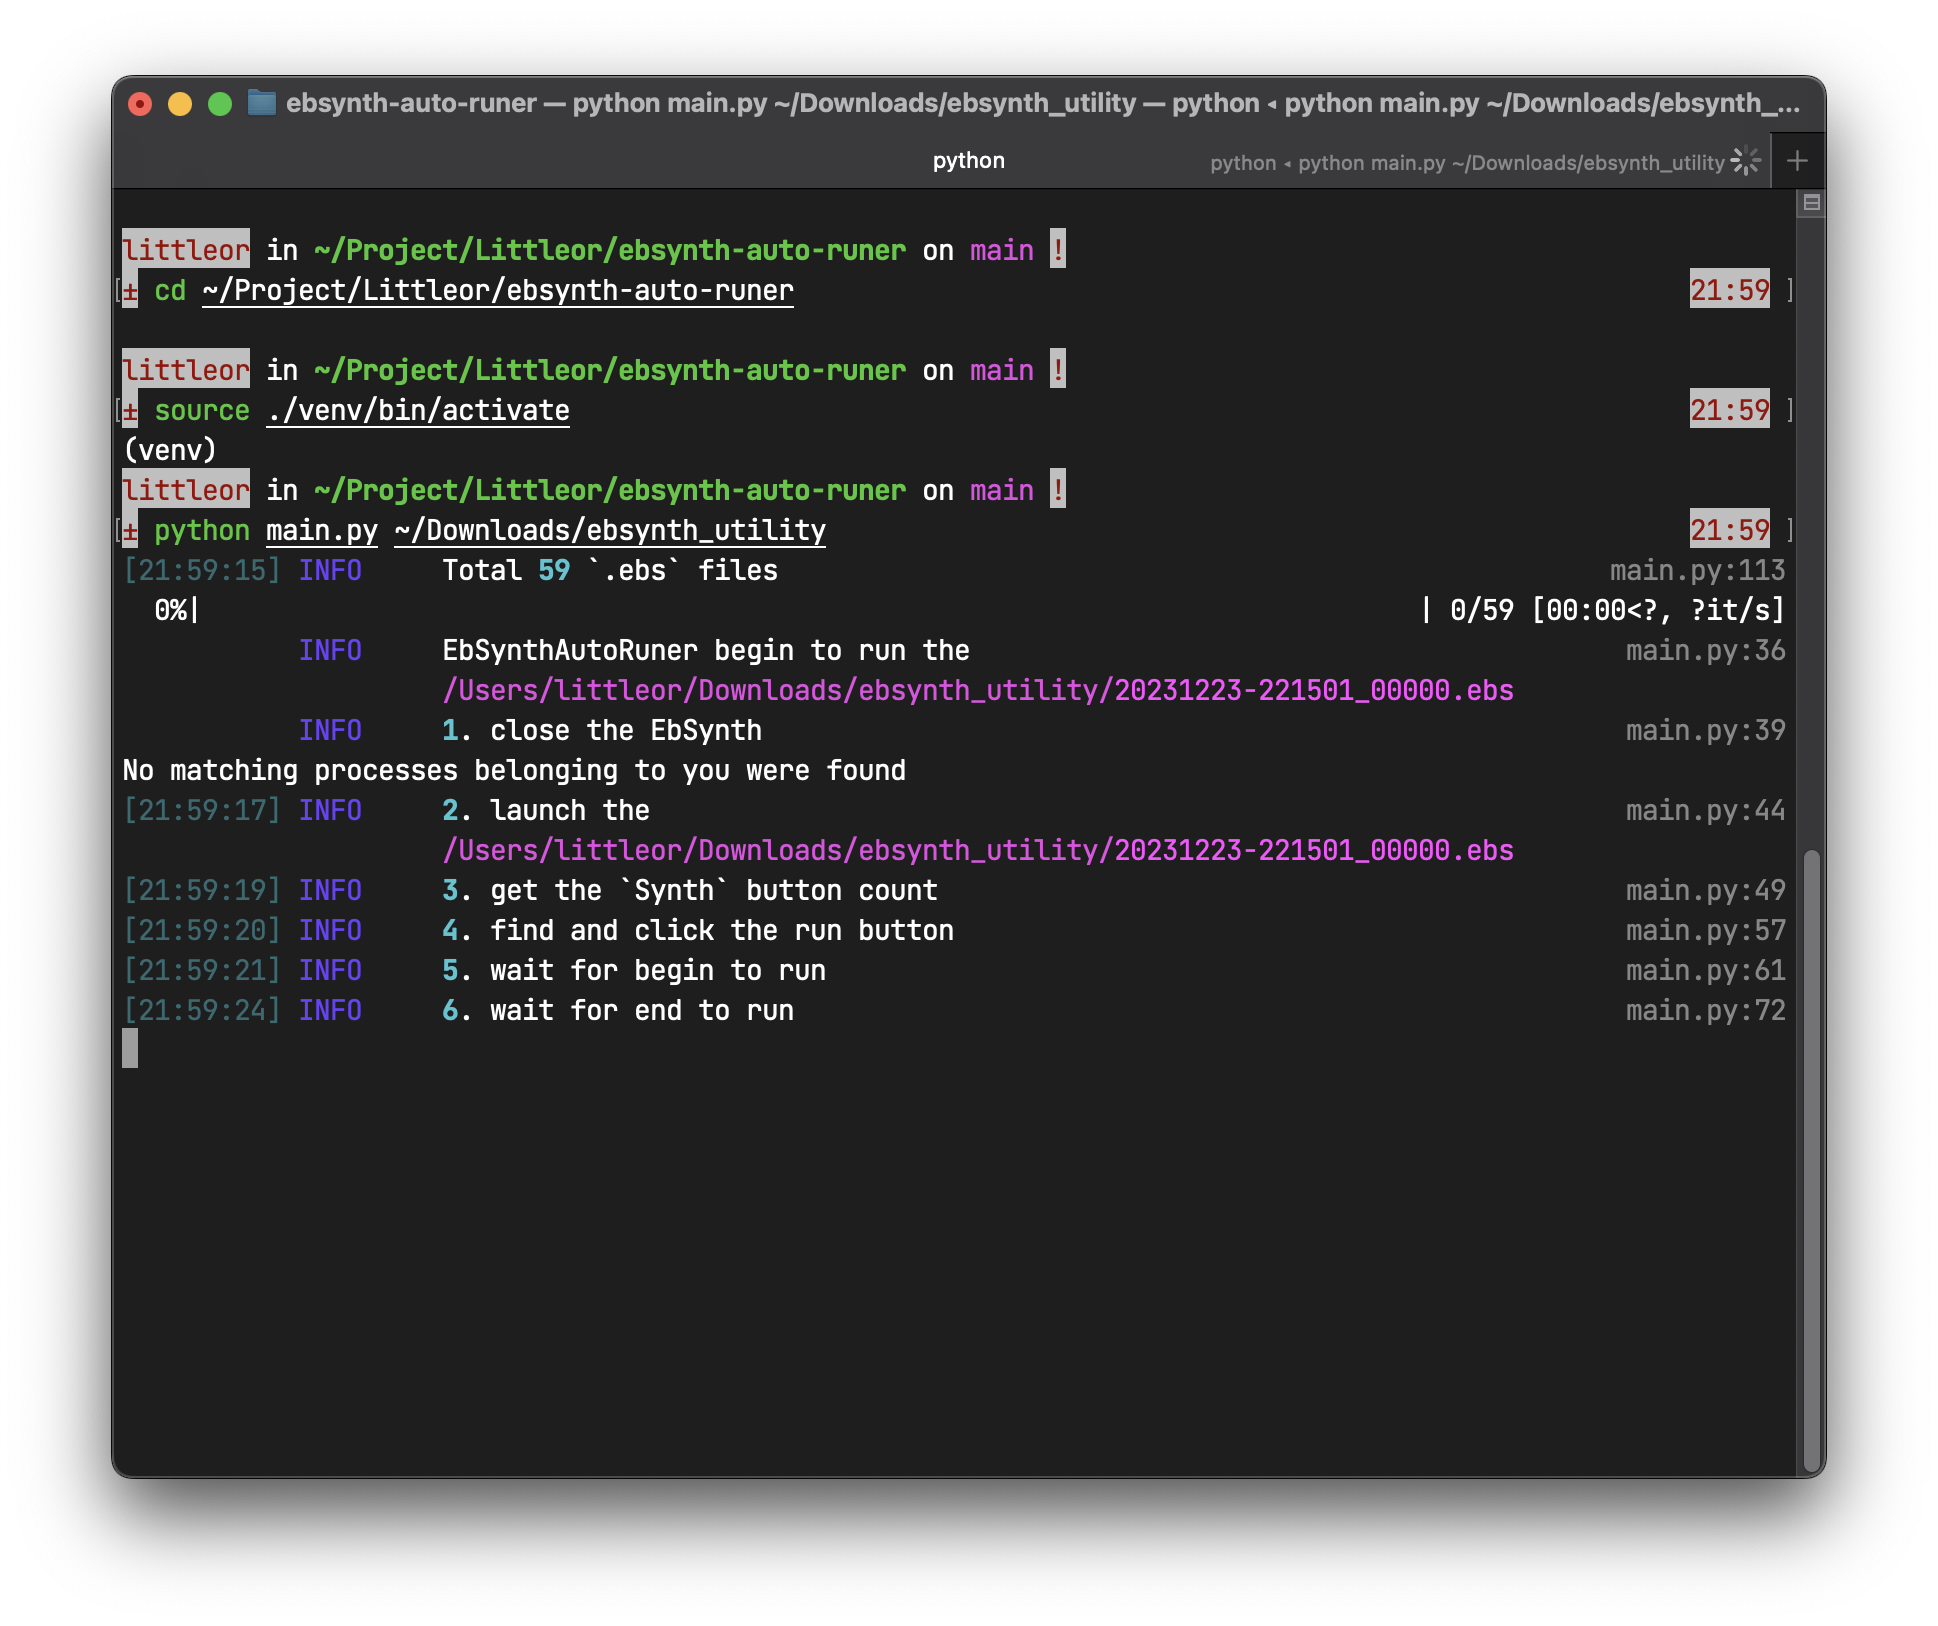
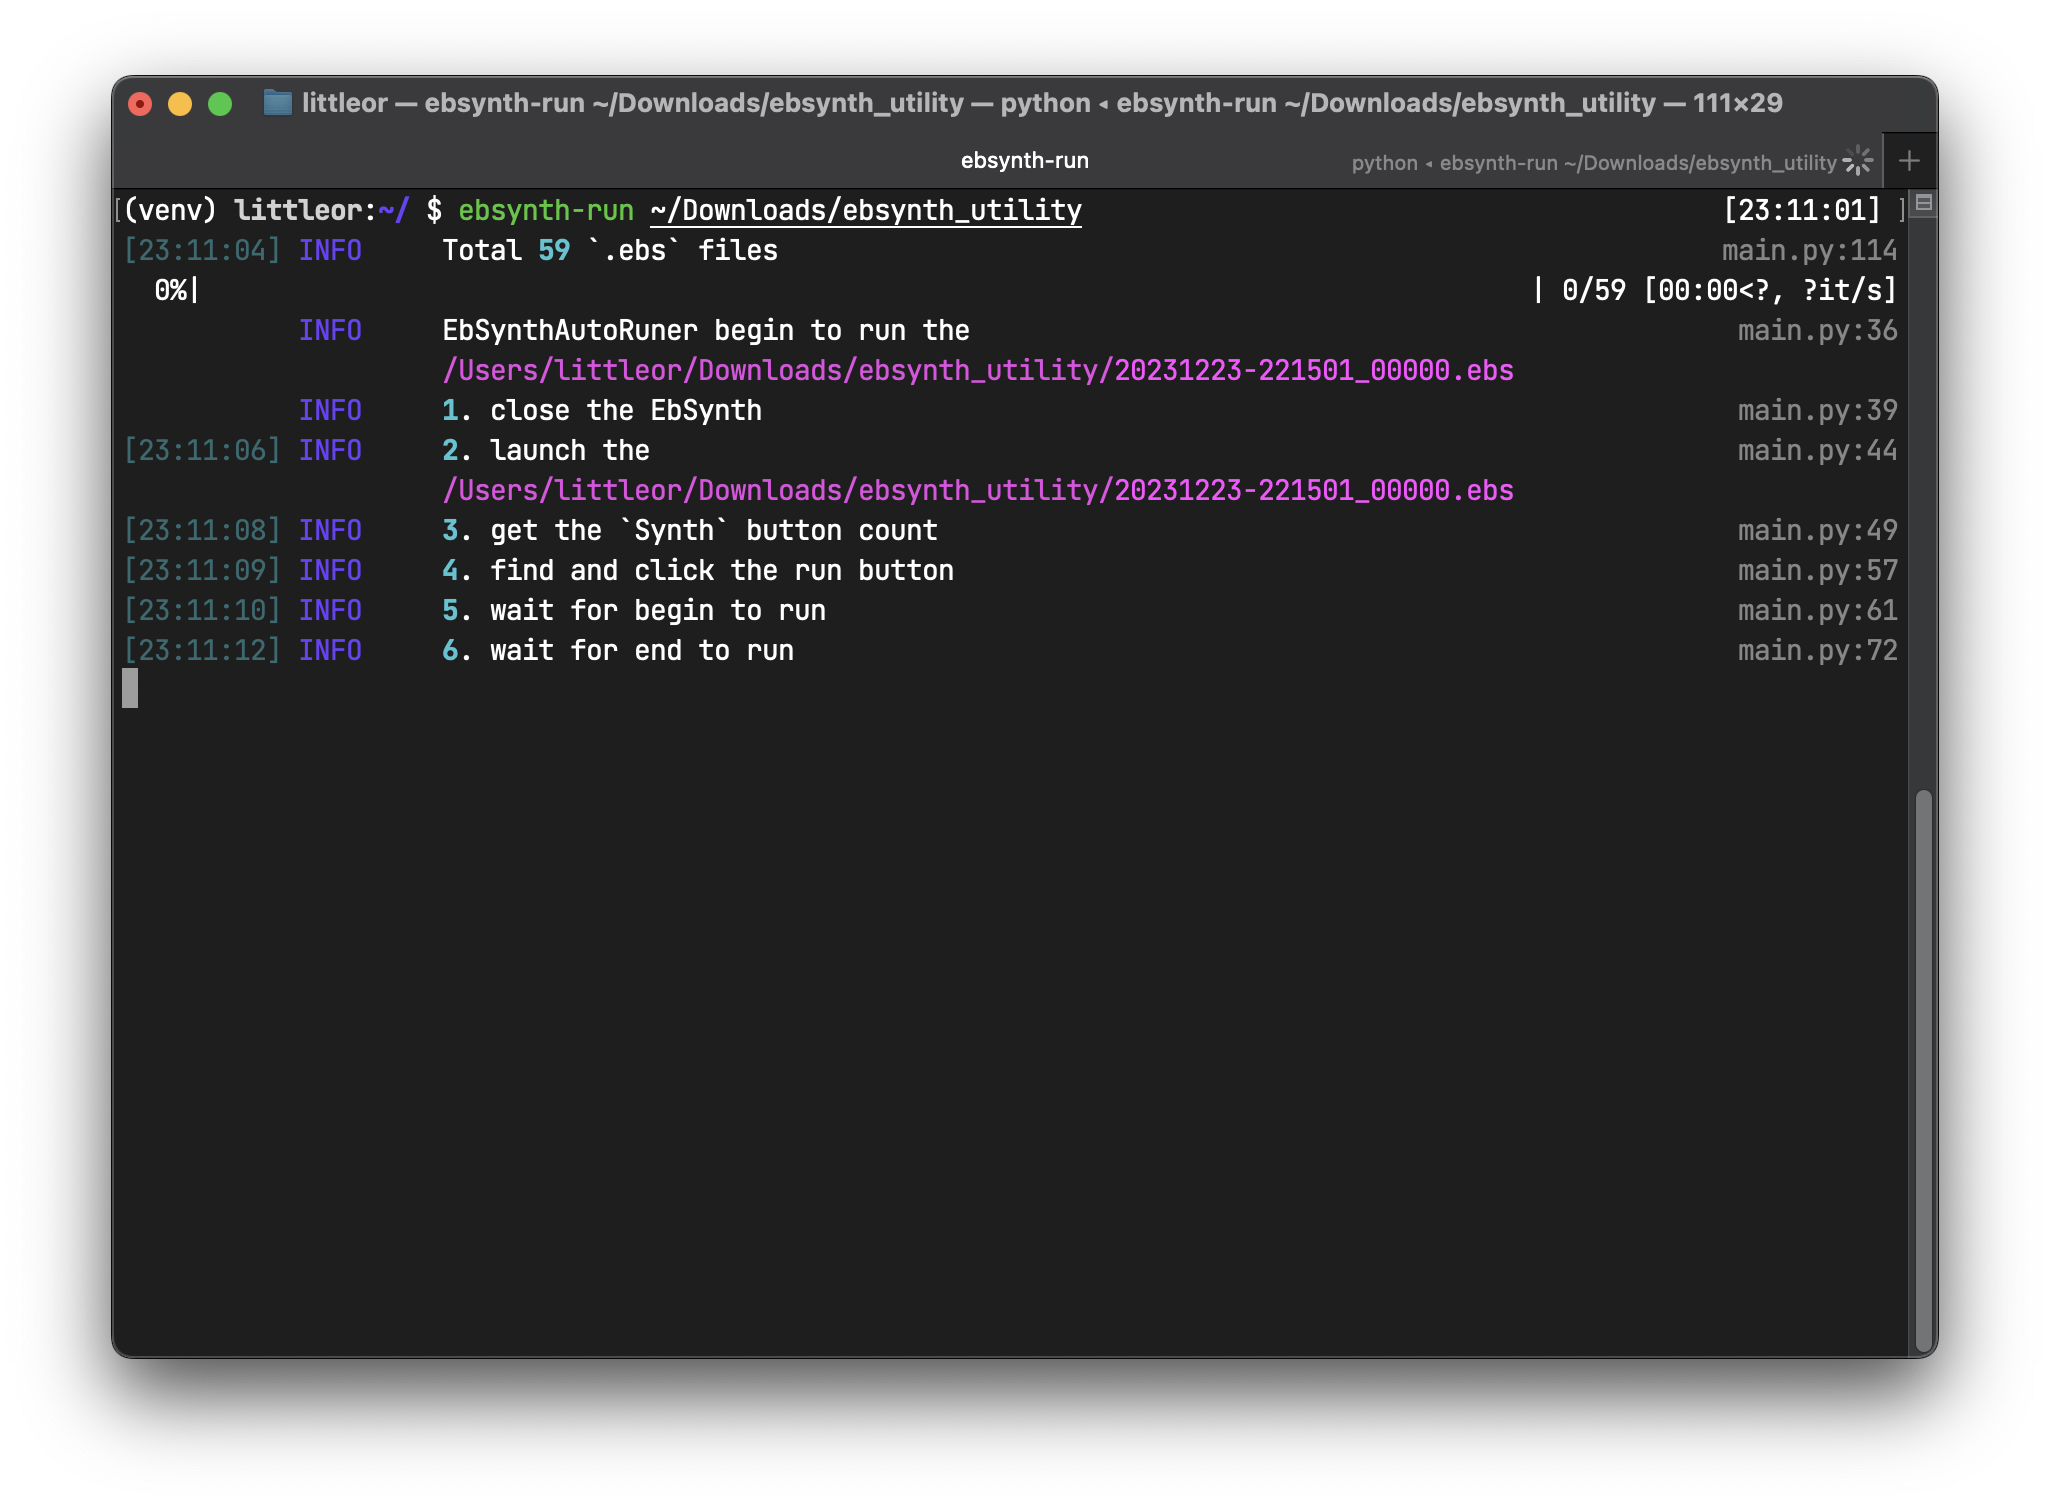
feat: pack to a cli

Changed region(s): [[0.031, 0.0312, 0.9598, 0.9363]]

diff --git a/main.py b/main.py
@@ -1,10 +1,11 @@
 import logging
+import os
 import time
 
 from tqdm import tqdm
 
-from utils import get_scaling_factor, close_ebsynth, launch_ebsynth_with_file, find_and_click, find_all_location, \
-    logging_config
+from utils.auto_run import get_scaling_factor, launch_ebsynth_with_file, find_and_click, find_all_location
+from utils.common import logging_config, close_ebsynth
 
 
 class EbSynthAutoRuner:
@@ -12,9 +13,8 @@ class EbSynthAutoRuner:
     software_path = None
     synth_button_confidence_threshold = 0.98
     run_button_confidence_threshold = 0.99
-
-    run_button_reference_image_path = "images/reference/run_button.png"
-    synth_button_reference_image_path = "images/reference/synth_button.png"
+    run_button_reference_image_path = os.path.join(os.path.dirname(__file__), "data/run_button.png")
+    synth_button_reference_image_path = os.path.join(os.path.dirname(__file__), "data/synth_button.png")
 
     def __init__(self, synth_button_confidence_threshold: float = None,
                  run_button_confidence_threshold: float = None,
@@ -91,6 +91,7 @@ class EbSynthAutoRuner:
 def process_ebs_files(
     dir_path: str,
     ebsynth_auto_runer: EbSynthAutoRuner,
+    logger
 ):
     import os
     if not os.path.exists(dir_path):
@@ -145,7 +146,7 @@ def args_parser():
     return args
 
 
-if __name__ == '__main__':
+def main():
     args = args_parser()
 
     logging_config()
@@ -159,4 +160,9 @@ if __name__ == '__main__':
     process_ebs_files(
         dir_path=args.dir_path,
         ebsynth_auto_runer=ebsynth_auto_runer,
+        logger=logger
     )
+
+
+if __name__ == '__main__':
+    main()

diff --git a/setup.py b/setup.py
@@ -1,0 +1,38 @@
+import setuptools
+
+with open("README.md", "r") as fh:
+    long_description = fh.read()
+
+setuptools.setup(
+    name="EbSynth-Auto-Runer",
+    version="0.0.1",
+    author="Littleor",
+    license='Apache License 2.0',
+    author_email="me@littleor.cn",
+    description="Support Mac for fully automated running of EbSynth(.ebs).",
+    long_description=long_description,
+    long_description_content_type="text/markdown",
+    install_requires=[
+        'opencv-python>=4.8.1.78',
+        'PyAutoGUI>=0.9.54',
+        'rich>=13.7.0',
+        'tqdm>=4.66.1',
+    ],
+    url="https://github.com/Littleor/ebsynth-auto-runer",
+    packages=setuptools.find_packages(),
+    include_package_data=True,
+    classifiers=[
+        'Programming Language :: Python',
+        'Programming Language :: Python :: 3',
+        'Programming Language :: Python :: 3.6',
+        'Programming Language :: Python :: Implementation :: CPython',
+        'Programming Language :: Python :: Implementation :: PyPy',
+        'License :: OSI Approved :: Apache Software License',
+    ],
+    py_modules=['main'],
+    entry_points={
+        'console_scripts': [
+            'ebsynth-run=main:main'
+        ]
+    }
+)

diff --git a/utils/auto_run.py b/utils/auto_run.py
@@ -1,32 +1,7 @@
-import logging
 import os
 
 import pyautogui
 from pyautogui import Point
-from rich.console import Console
-from rich.logging import RichHandler
-
-
-def logging_config(level=logging.INFO):
-    console = Console()
-
-    logging.basicConfig(
-        level=level,
-        format="%(message)s",
-        datefmt="[%X]",
-        handlers=[RichHandler(console=console, rich_tracebacks=True)]
-    )
-
-
-def close_ebsynth(software_path=None) -> bool:
-    """
-    close ebsynth
-    :param software_path:
-    :return:
-    """
-    # TODO Need support for windows
-    app_name = "EbSynth" if software_path is None else software_path
-    os.system(f"killall {app_name}")
 
 
 def launch_ebsynth_with_file(file_path: str, software_path=None) -> bool:

diff --git a/utils/common.py b/utils/common.py
@@ -1,0 +1,27 @@
+import logging
+import os
+
+from rich.console import Console
+from rich.logging import RichHandler
+
+
+def logging_config(level=logging.INFO):
+    console = Console()
+
+    logging.basicConfig(
+        level=level,
+        format="%(message)s",
+        datefmt="[%X]",
+        handlers=[RichHandler(console=console, rich_tracebacks=True)]
+    )
+
+
+def close_ebsynth(software_path=None) -> bool:
+    """
+    close ebsynth
+    :param software_path:
+    :return:
+    """
+    # TODO Need support for windows
+    app_name = "EbSynth" if software_path is None else software_path
+    os.system(f"killall {app_name}")

diff --git a/README.md b/README.md
@@ -29,22 +29,12 @@ files generated in the [ebsynth_utility](https://github.com/s9roll7/ebsynth_util
 ## 🛠 Installation
 
 First, you need to install [EbSynth](https://ebsynth.com/) on your Mac, and move the `EbSynth.app` to
-the `/Applications`
-folder
+the `/Applications` folder.
 
 Then, all you need is Python 3.6+ and pip, and just run the following commands in you Terminal:
 
 ```bash
-# Clone and cd
-git clone https://github.com/Littleor/ebsynth-auto-runer.git
-cd ebsynth-auto-runer
-
-# If you want to use venv
-python3 -m venv venv
-source venv/bin/activate
-
-# Install requirements
-pip install -r requirements.txt
+pip install ebsynth-auto-runer
 ```
 
 ## 🚀 Usage
@@ -60,7 +50,7 @@ command in your Terminal to start the automation:
 
 ```bash
 # You should replace the /path/to/your/project with your own path which is also the `ebsynth_utility` project path
-python main.py /path/to/your/project
+ebsynth-run /path/to/your/project
 ```
 
 > If you forget to give the permission to the `Terminal` app, the macOS will ask you to grant the `Screen Recording`
@@ -79,6 +69,30 @@ python main.py --help
 * You can freely to use your Mac while the `EbSynth` is running, but you should make the `EbSynth` window show at the
   top
   of the screen when the `EbSynth` ends the current `.ebs` file processing.
+
+## 📖 Manual Installation & Usage
+
+Clone the project and install the requirements:
+
+```bash
+# Clone and cd
+git clone https://github.com/Littleor/ebsynth-auto-runer.git
+cd ebsynth-auto-runer
+
+# If you want to use venv
+python3 -m venv venv
+source venv/bin/activate
+
+# Install requirements
+pip install -r requirements.txt
+```
+
+Run the following command to start the automation:
+
+```bash
+# You should replace the /path/to/your/project with your own path which is also the `ebsynth_utility` project path
+python main.py /path/to/your/project
+```
 
 ## 📝 TODO
 
